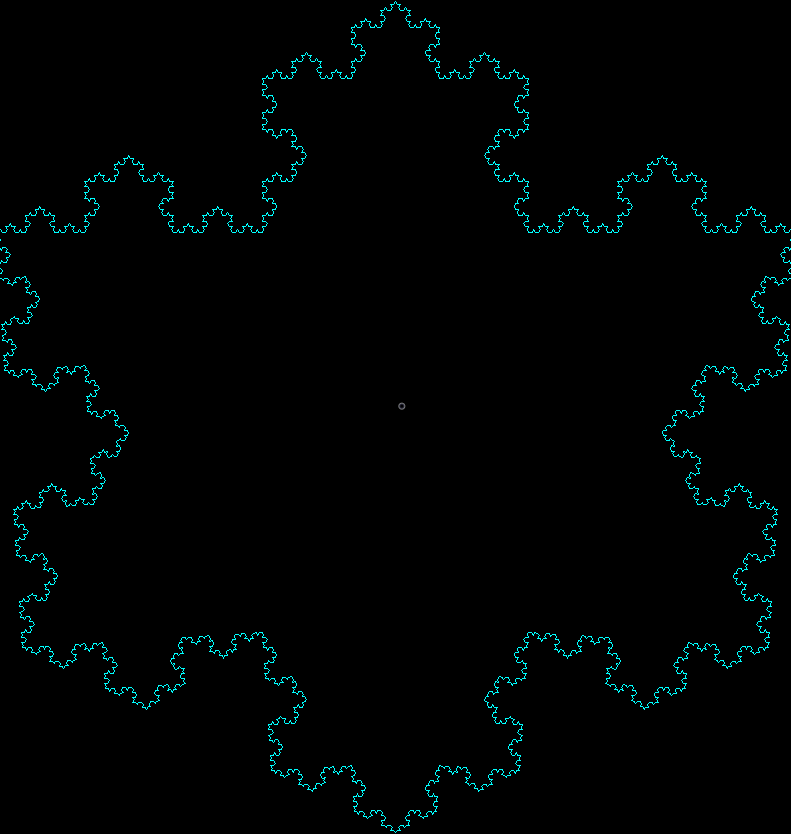
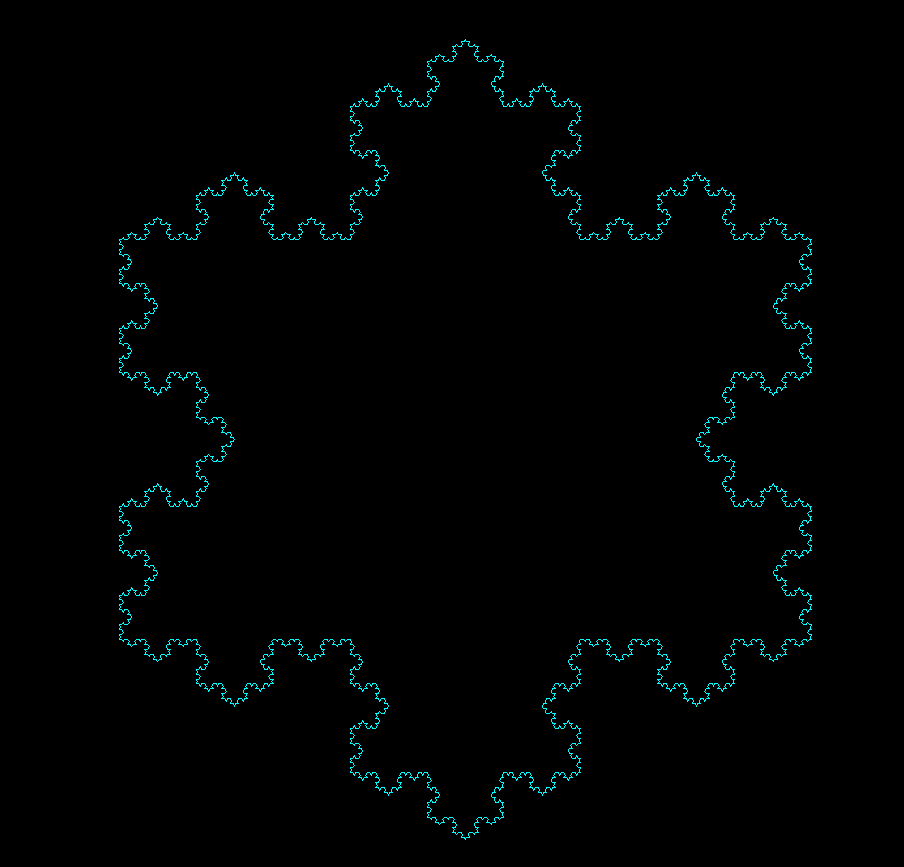
Updated snowflake

diff --git a/Koch Snowflake.py b/Koch Snowflake.py
@@ -28,15 +28,16 @@ def line(startx,starty, endx,endy):
     line(Bx,By, Cx,Cy)
     line(Cx,Cy, endx,endy)
 
-length = 400
+length = 200
+rt3 = math.sqrt(3)
 while True:
     tur.ht()
     tur.speed(0)
     tur.color("cyan")
     tur.bgcolor("black")
-    line(-length,length/2, length,length/2)
-    line(length,length/2, 0,-length)
-    line(0,-length, -length,length/2)
+    line(-length*rt3,length, length*rt3,length)
+    line(length*rt3,length, 0,-length*2)
+    line(0,-length*2, -length*rt3,length)
     time.sleep(10)
     tur.reset()
 
